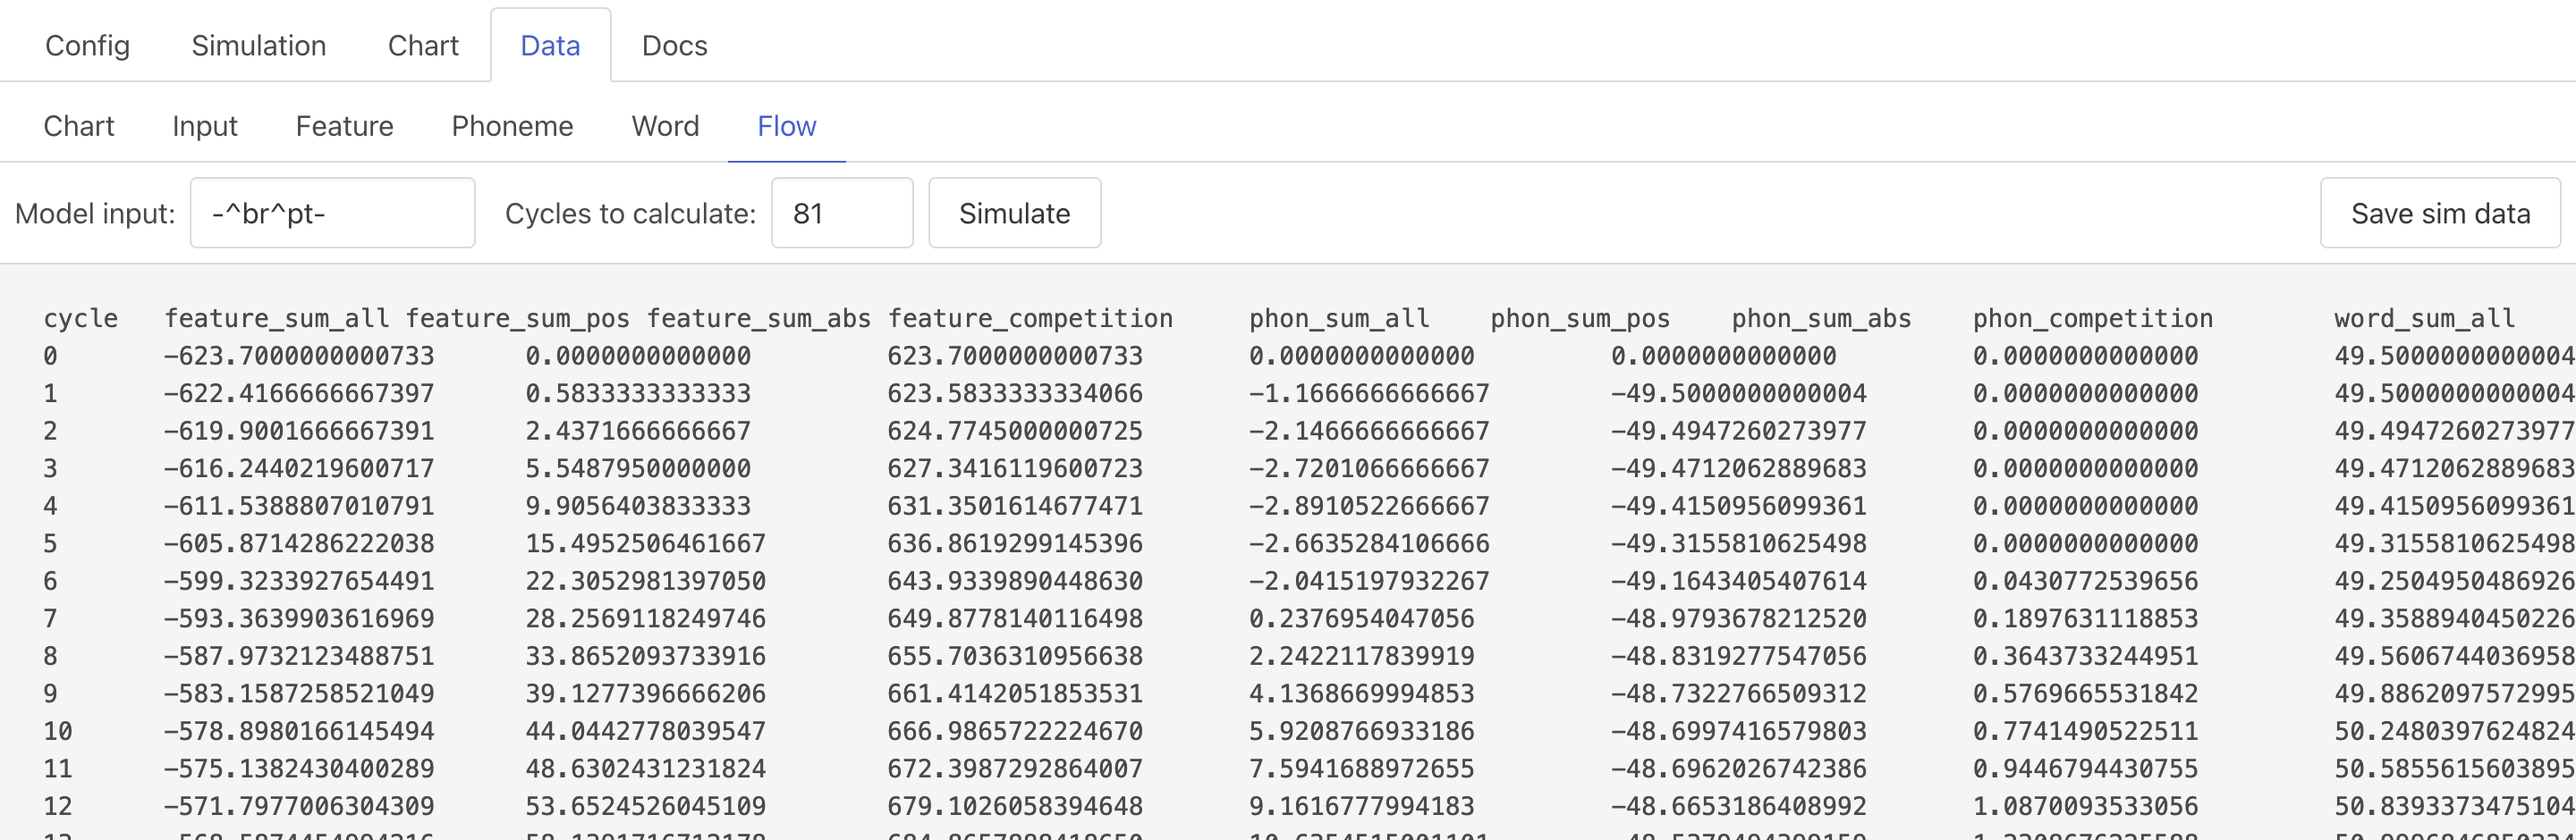
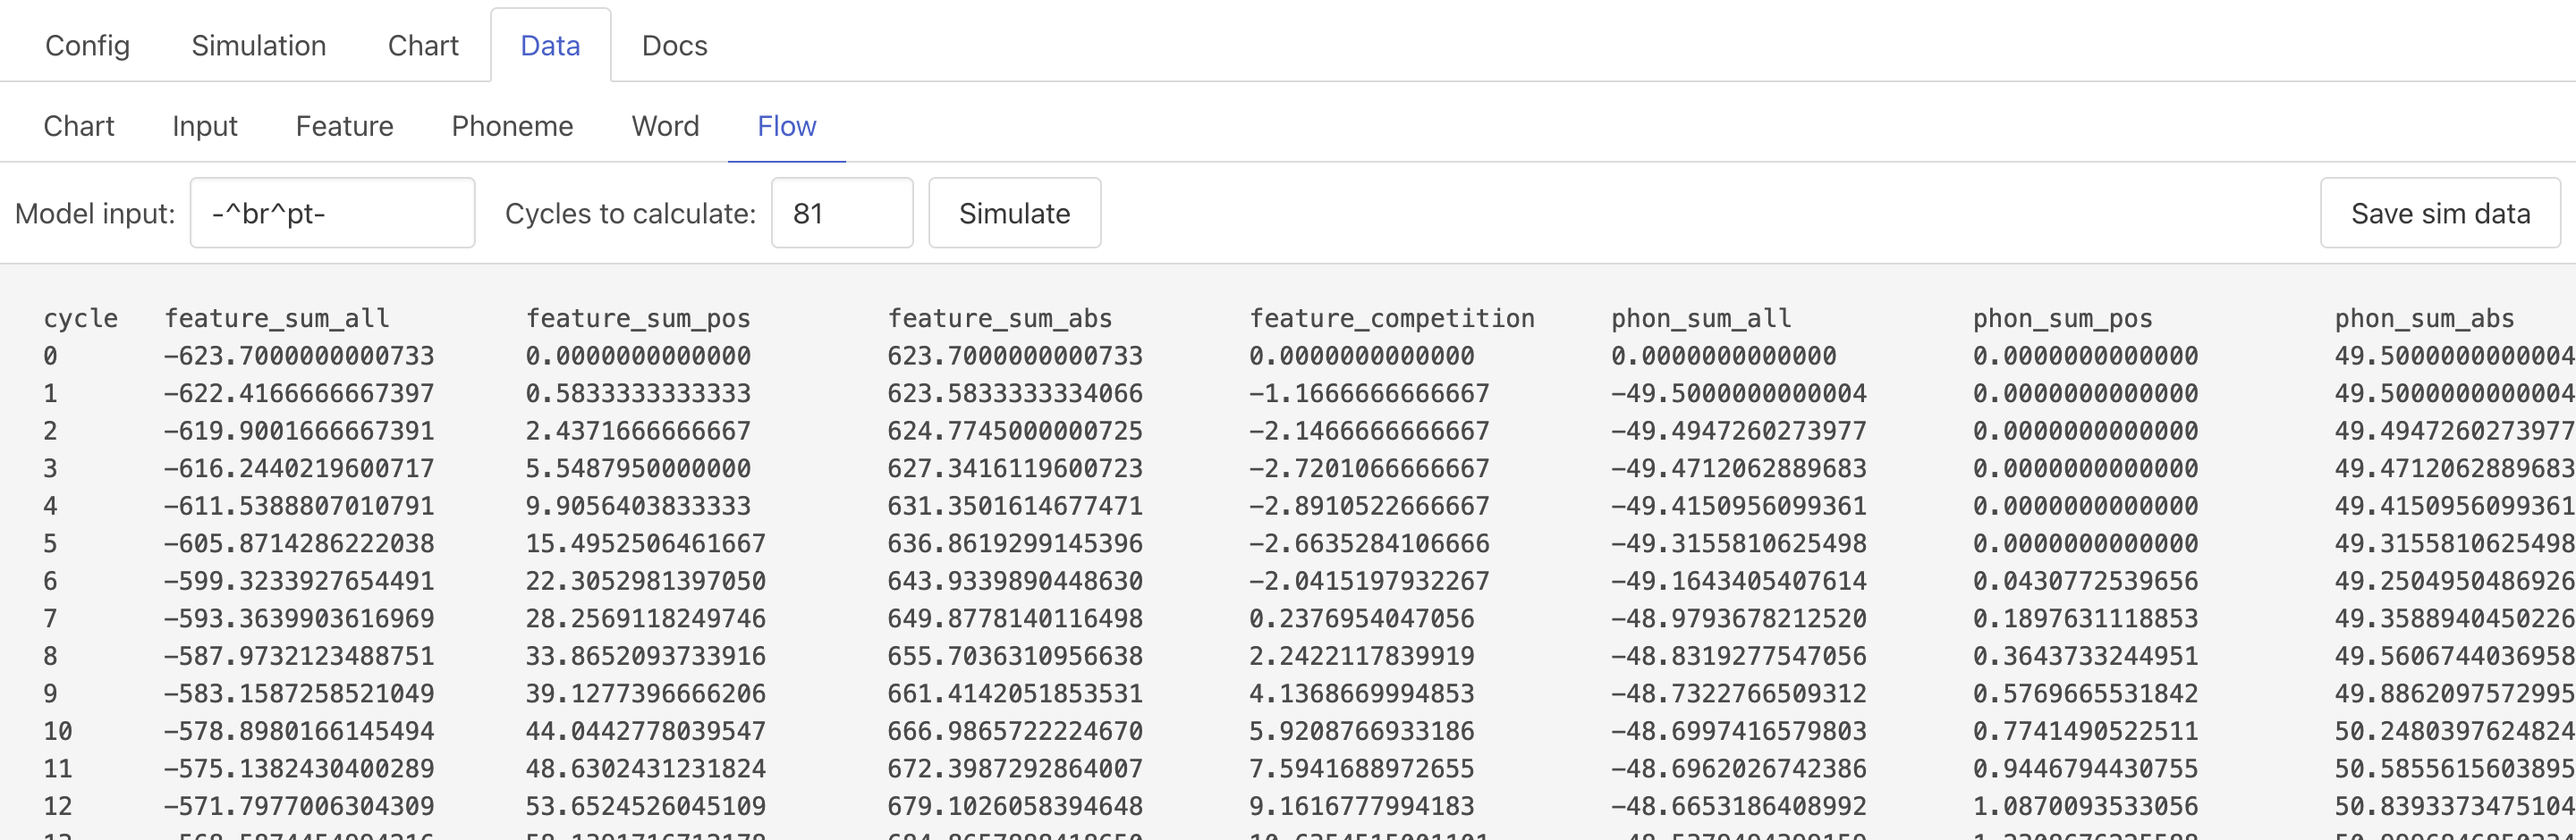
docs: update Config and Flow screenshots; document JSON buttons, chart data, Flow columns, per-level stochasticity

diff --git a/docs/tstrace-user-guide.md b/docs/tstrace-user-guide.md
@@ -32,7 +32,7 @@ tsTRACE is a JavaScript (more precisely, TypeScript) re-implementation of the Ja
         *   [Simulation](#simulation)
         *   [Chart](#chart)
         *   [Data tabs](#data-tabs)
-            *   [Data-Chart data](#data-chart-data)
+            *   [Data-Chart](#data-chart)
             *   [Data-Input](#data-input)
             *   [Data-Features](#data-features)
             *   [Data-Phonemes](#data-phonemes)
@@ -282,8 +282,10 @@ The screenshot below shows the top part of the *Config-Parameters* sub-tab. The 
 Before going through the parameter that you can change, we simply note that the model input panel displays input corresponding to text in the *Model Input* text field. If you change the contents of that field, hit 'Enter' on your keyboard for it to register, and you will see the *Model Input* **panel** update.
 
 <p align="center">
-  <img src="image/tstrace-config-parameters.png"  />
+  <img src="image/tsTRACE-config-tab-parameters.png"  />
 </p>
+
+* *Load from JSON* / *Save JSON*. Save the entire current configuration (all parameters, the model input, and the current phonology and lexicon) to a JSON file, or load one you saved earlier. This is the easiest way to return to a known configuration.
 
 * *Model input* field. You can type directly into this field to change the input, and then press "Enter" on your keyboard to update.
 
@@ -297,7 +299,7 @@ Before going through the parameter that you can change, we simply note that the 
 #### *Model parameters*
 
 <mark>
-Note that more details about parameters are available in the companion document <a href="structure-of-trace.md" data-tstrace-doc="structure-of-trace">The Structure of TRACE</a>, which is shipped alongside tsTRACE.
+Note that more details about parameters are available in the companion document <a href="structure-of-trace.md" data-tstrace-doc="structure-of-trace">The Structure of TRACE</a>, available in the Docs tab.
 </mark>
 
 The remaining items in this panel are model parameters. If you change any of these, a 'reset' button will appear. Crucially, the 'reset' returns to the previously specified value for the feature, *not* the default. <span style="color:red">Currently, if you need a return to *all* defaults, you must change each one back manually or simply reload the GUI.</span>
@@ -312,7 +314,9 @@ The remaining items in this panel are model parameters. If you change any of the
 
 * **Input Noise**. Standard deviation of Gaussian noise with mean of 0.0 to add to all input nodes. See Magnuson et al. (2018) for an example.
 
-* **Stochasticity**. Standard deviation of Gaussian noise with mean of 0.0 to add to **all** nodes of the model at each time step. See McCelland (1991). McClelland reports that a value of 0.02 adds a substantial amount of noise.
+* **Stochasticity**. Standard deviation of Gaussian noise with mean of 0.0 added to the net input of every feature, phoneme, and word node (at every time slice) on each cycle, just before activations are updated. A fresh value is drawn for each node on each cycle. Input nodes are not affected (see **Input Noise**). Because noise passes through the usual activation update, positive noise moves a node farther than negative noise when the node is near its resting level. Noise is not seeded, so repeated runs with the same settings will differ. See McClelland (1991). McClelland reports that a value of 0.02 adds a substantial amount of noise.
+
+* **STOCH** (per-level stochasticity) parameters: there are separate values for **f** (feature level), **p** (phoneme level), and **w** (word level). Each is the standard deviation of additional Gaussian noise (mean 0.0) added to that level's net input on each cycle, on top of the global **Stochasticity** value. The two sources are independent, so their variances add: the noise SD at a level is √(Stochasticity² + STOCH²). For example, Stochasticity = 0.02 and STOCH[w] = 0.01 gives an SD of about 0.022 at the word level and 0.02 at the other levels. To add noise to only one level, leave Stochasticity at 0 and set that level's STOCH value. Defaults are 0.
 
 * **Attention (lexical gain).** Allows a type of lexical emphasis. See Mirman et al. (2014).
 
@@ -377,12 +381,14 @@ The remaining items in this panel are model parameters. If you change any of the
 At this tab, you will see a display as in this screenshot.
 
 <p align="center">
-  <img src="image/tstrace-config-phonology.png"  />
+  <img src="image/tsTRACE-config-tab-phonology.png"  />
 </p>
 
 * *Load from XML* allows you to replace the current phonology parameters with ones you read in from an XML file.
 
 * *Save XML* saves the current phonology parameters to an XML file with a ".jt" extension.
+
+* *Load from JSON* / *Save JSON* do the same with a JSON file.
 
 * Phoneme editor
     * Click on a phoneme and then you can change the label, or change its feature definitions.
@@ -401,7 +407,7 @@ At this tab, you will see a display as in this screenshot.
 
 #### Config-Lexicon
 
-The Lexicon window has 3 buttons (*add word*, *load from XML*, *save XML*). See screenshot below that shows just the first few rows of the lexicon.
+The Lexicon window has 5 buttons (*Add word*, *Load from XML*, *Save XML*, *Load from JSON*, *Save JSON*). See screenshot below that shows just the first few rows of the lexicon.
 
 * *Add word* adds a row at the top with the "Lexical Items" field blank and frequency and priming set to 0. Note that by default, frequency and priming are turned off; see relevant parameters in [Config-Parameters](#config-parameters).
 
@@ -409,8 +415,10 @@ The Lexicon window has 3 buttons (*add word*, *load from XML*, *save XML*). See 
 
 * *Save XML* saves the current lexicon to an XML file with a ".jt" extension.
 
+* *Load from JSON* / *Save JSON* do the same with a JSON file.
+
 <p align="center">
-  <img src="image/tstrace-config-lexicon.png"  />
+  <img src="image/tsTRACE-config-tab-lexicon.png"  />
 </p>
 
 If you save the lexicon, you will get a .XML like this, which has been edited to only include 2 words. To keep file size small, the value for Priming is only included if it is not 0. In this case, we have actually edited the XML file after saving it. If we read this in using *Load from XML*, we'll see that Priming = 1 for the first word, but 0 for the second, even though no Priming value was specified for the second word in the file (or rather, because no value was specified).
@@ -563,9 +571,9 @@ In the lexicon screen, there are 2 kinds of **Delete** buttons.
 
 The Data tab provides 6 subtabs, described below.
 
-### Data-Chart data
+### Data-Chart
 
-* The *Chart data* sub tab shows the exact data used at the moment to drive the chart on the *Chart* tab. In the example below, we see there is one column for 'cycle', and then 1 column for each word that is included in the plot. We can tell that the user has selected the 'Max (Post-Hoc)' alignment since we see words with a variety of alignments.
+* The *Chart* sub-tab shows the exact data used at the moment to drive the chart on the *Chart* tab. In the example below, we see there is one column for 'cycle', and then 1 column for each word that is included in the plot. We can tell that the user has selected the 'Max (Post-Hoc)' alignment since we see words with a variety of alignments.
 
 <p align="center">
   <img src="image/tsTRACE-data-chart.png"  />
@@ -573,7 +581,7 @@ The Data tab provides 6 subtabs, described below.
 
 * Note that you can trigger a simulation from here (by clicking *Simulate*), which you might want to do if you just want to tweak a parameter and then jump here to examine the raw chart data or save it.
 
-* You can *Save sim data*, which will allow you to download the data in the window to a CSV file. **CURRENTLY, THIS ACTUALLY JUST DOES THE SAME THING AS OTHER SAVE SIM DATA BUTTONS AND DOES NOT SAVE THE CHART DATA.**
+* The [*Save sim data* button](#save-sim-data-button) always does the same thing; the zip file it downloads includes these chart data as `chart-data.csv`.
 
 --------------
 [Return to *Table of Contents*](#table-of-contents)
@@ -582,7 +590,7 @@ The Data tab provides 6 subtabs, described below.
 
 ### Data-Input
 
-* This page displays the input pattern, which is a  features (+1 for the cycles column) x cycles matrix. Currently, this tab includes animation controls, but the input pattern is fixed. Although it is applied one row at a time to the Features layer, the input matrix is predefined and does not change. (This issue is noted as a desired future change.)
+* This page displays the input pattern, which is a  features (+1 for the cycles column) x cycles matrix. The input matrix is predefined and does not change during a simulation (it is applied one column at a time to the Features layer), so this tab has no *Current cycle* controls.
 
 * The [*Save sim data* button](#save-sim-data-button) always does the same thing.
 
@@ -662,39 +670,41 @@ The Data tab provides 6 subtabs, described below.
 
 **Data columns in flow data**
 
-1. FeatureSumAll: Sum of all units in the feature level.
+The names below are the column headers shown on the *Flow* sub-tab and used in `levels-and-flows.csv` (which also has an `input` column).
 
-2. FeatSumPos: Sum of positive activations in the feature level (excludes zeroes and negative values, which one might want to do since nodes with negative values may still be at resting state).
+1. `feature_sum_all`: Sum of all units in the feature level.
 
-3. FeatSumAbs: Sum of \|activation\| across the feature level (always non-negative; reflects total feature-layer activity magnitude).
+2. `feature_sum_pos`: Sum of positive activations in the feature level (excludes zeroes and negative values, which one might want to do since nodes with negative values may still be at resting state).
 
-4. FeatureCompetition: Sum of inhibition being transmitted within the feature level.
+3. `feature_sum_abs`: Sum of \|activation\| across the feature level (always non-negative; reflects total feature-layer activity magnitude).
 
-5. PhonSumAll: Sum of all units in the phoneme level.
+4. `feature_competition`: Sum of inhibition being transmitted within the feature level.
 
-6. PhonSumPos: Sum of positive activations in the phoneme level (excludes zeroes and negative values, which one might want to do since nodes with negative values may still be at resting state).
+5. `phon_sum_all`: Sum of all units in the phoneme level.
 
-7. PhonSumAbs: Sum of \|activation\| across the phoneme level.
+6. `phon_sum_pos`: Sum of positive activations in the phoneme level (excludes zeroes and negative values, which one might want to do since nodes with negative values may still be at resting state).
 
-8. PhonemeCompetition: Sum of inhibition being transmitted within the phoneme level.
+7. `phon_sum_abs`: Sum of \|activation\| across the phoneme level.
 
-9. WordSumAll: Sum of all units in the word level.
+8. `phon_competition`: Sum of inhibition being transmitted within the phoneme level.
 
-10. WordSumPos: Sum of positive activations in the word level (excludes zeroes and negative values, which one might want to do since nodes with negative values may still be at resting state).
+9. `word_sum_all`: Sum of all units in the word level.
 
-11. WordSumAbs: Sum of \|activation\| across the word level.
+10. `word_sum_pos`: Sum of positive activations in the word level (excludes zeroes and negative values, which one might want to do since nodes with negative values may still be at resting state).
 
-12. LexicalCompetition: Sum of inhibition being transmitted within the word level.
+11. `word_sum_abs`: Sum of \|activation\| across the word level.
 
-13. FeatToPhonSum: Total activity flowing from features to phonemes.
+12. `lexical_competition`: Sum of inhibition being transmitted within the word level.
 
-14. PhonToFeatSum: Total activity flowing from phonemes to features (is zero by default).
+13. `feat_to_phon`: Total activity flowing from features to phonemes.
 
-15. PhonToWordSum: Total activity flowing from phonemes to words.
+14. `phon_to_feat`: Total activity flowing from phonemes to features (is zero by default).
 
-16. WordToPhonSum: Total activity flowing from words to phonemes.
+15. `phon_to_word`: Total activity flowing from phonemes to words.
 
-The three Sum-of-absolute-values columns (`FeatSumAbs`, `PhonSumAbs`, `WordSumAbs`) match the *Absolute sums* option of the *Activation summation* dropdown in the *Chart* tab's [Flow Indices](#chart) view.
+16. `word_to_phon`: Total activity flowing from words to phonemes.
+
+The three sum-of-absolute-values columns (`feature_sum_abs`, `phon_sum_abs`, `word_sum_abs`) match the *Absolute sums* option of the *Activation summation* dropdown in the *Chart* tab's [Flow Indices](#chart) view.
 
 
 --------------
@@ -706,7 +716,7 @@ The three Sum-of-absolute-values columns (`FeatSumAbs`, `PhonSumAbs`, `WordSumAb
 
 * Several tabs include the *Save sim data* button.
 
-* If you click the *Save sim data* button, you will be able to download a zip file containing CSV records of the input, features, phonemes, words, and "flow" data. You can explore those data; they are explained in sections above.
+* If you click the *Save sim data* button, you will be able to download a zip file containing CSV records of the input, features, phonemes, words, "flow" data, and the current chart data. You can explore those data; they are explained in sections above.
 
 * One key difference between the descriptions above and the data in the CSV files is that the CSV files include an extra column showing what the *Model input* was for the simulation.
 
